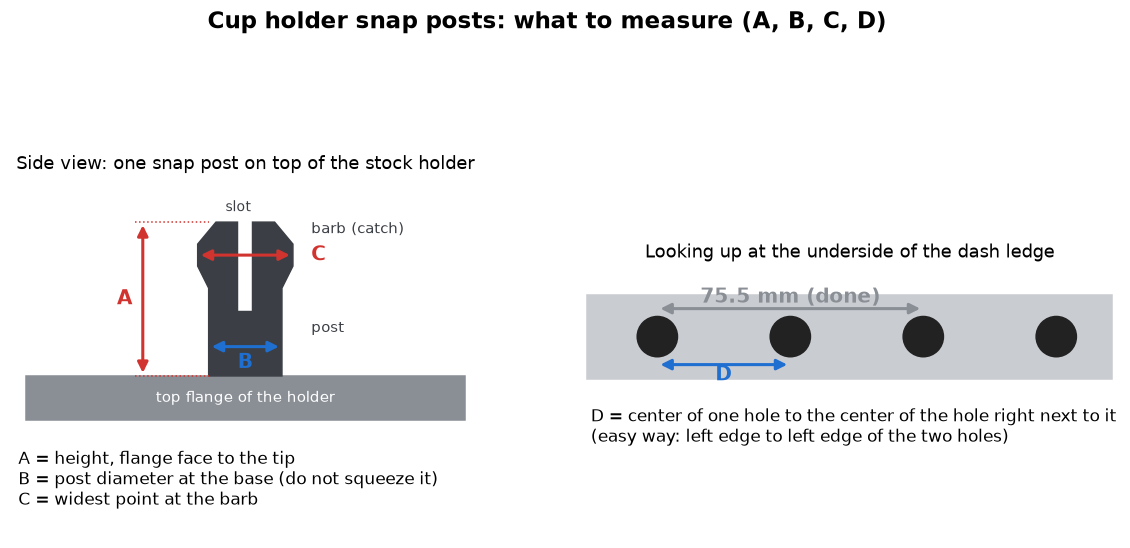
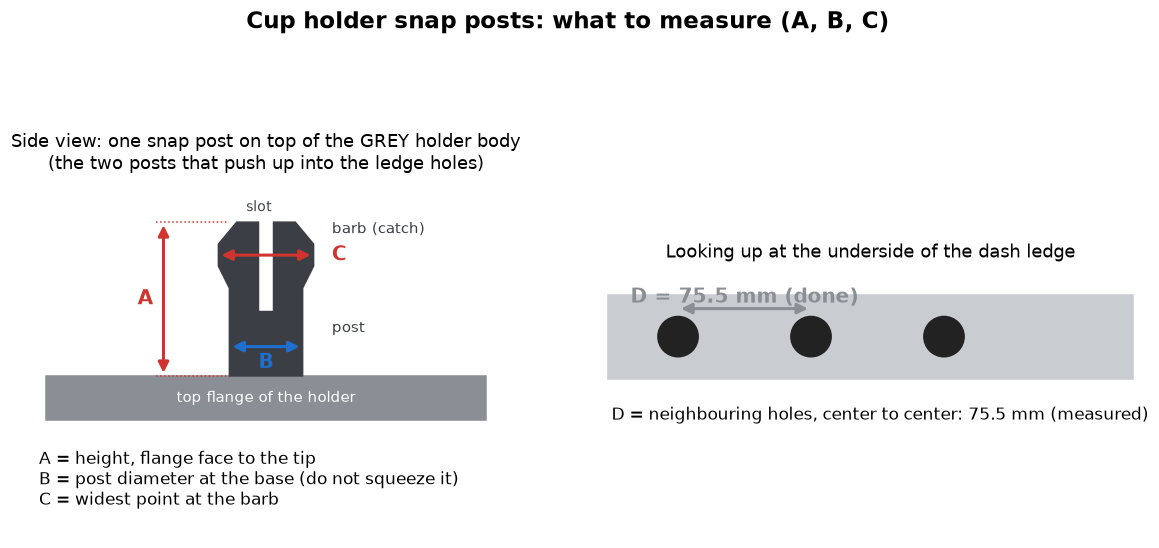
Record 75.5 mm hole spacing; update measuring guide
Neighbouring ledge holes are 75.5 mm apart (same as the post spacing),
so holders sit at least 151 mm apart and the Yeti cup has room. Mark D
as measured and label the posts as part of the grey holder body.

Claude-Session: https://claude.ai/code/session_01GspfW6RzL6x6FFXjPYGow1

diff --git a/docs/make_measure_diagram.py b/docs/make_measure_diagram.py
@@ -12,7 +12,7 @@ def dim(ax,p,q,label,color,off=(0,0),ha='center'):
 
 fig,(a1,a2)=plt.subplots(1,2,figsize=(13,6.5),gridspec_kw={'width_ratios':[1,1.15]})
 # Side view of one snap post on the stock holder's top flange.
-a1.set_title('Side view: one snap post on top of the stock holder',fontsize=12)
+a1.set_title('Side view: one snap post on top of the GREY holder body\n(the two posts that push up into the ledge holes)',fontsize=12)
 a1.add_patch(Rectangle((-30,-6),60,6,color=GREY))
 a1.text(0,-3,'top flange of the holder',ha='center',va='center',color='white',fontsize=10)
 post=[(-5,0),(-5,12),(-6.5,15),(-6.5,18),(-4,21),(4,21),(6.5,18),(6.5,15),(5,12),(5,0)]
@@ -30,11 +30,10 @@ a1.text(-31,-10,'A = height, flange face to the tip\nB = post diameter at the ba
 # Underside of the dash ledge, looking up at the hole row.
 a2.set_title('Looking up at the underside of the dash ledge',fontsize=12)
 a2.add_patch(Rectangle((-10,-12),150,24,color='#c9ccd1'))
-for i,x in enumerate(range(0,151,38)[:4]):
+for i,x in enumerate(range(0,151,38)[:3]):
     a2.add_patch(Circle((x+10,0),5.75,color='#222'))
-dim(a2,(10,-8),(48,-8),'D',BLUE,off=(0,-3))
-dim(a2,(10,8),(86,8),'75.5 mm (done)',GREY,off=(0,3.2))
-a2.text(-9,-20,'D = center of one hole to the center of the hole right next to it\n(easy way: left edge to left edge of the two holes)',fontsize=11,va='top')
+dim(a2,(10,8),(48,8),'D = 75.5 mm (done)',GREY,off=(0,3.2))
+a2.text(-9,-20,'D = neighbouring holes, center to center: 75.5 mm (measured)',fontsize=11,va='top')
 a2.set_xlim(-12,142); a2.set_ylim(-32,20); a2.set_aspect('equal'); a2.axis('off')
-fig.suptitle('Cup holder snap posts: what to measure (A, B, C, D)',fontsize=15,fontweight='bold')
+fig.suptitle('Cup holder snap posts: what to measure (A, B, C)',fontsize=15,fontweight='bold')
 fig.savefig(Path(__file__).with_name('measure_posts.png'),dpi=110,bbox_inches='tight')

diff --git a/README.md b/README.md
@@ -39,10 +39,10 @@ These are approximate tape readings from the photos, not caliper values.
 | Orange clip end tab | **17.6 mm** (caliper) | [photo](pictures/clip_end_17_6mm.jpg) |
 | Stock spring free length | ~1.05 in (~27 mm) | [IMG_0157](pictures/IMG_0157.JPEG) |
 | Ledge hole diameter | **11.5 mm** (caliper) | owner |
-| Post spacing, center to center | **75.5 mm** (caliper) | owner |
+| Hole spacing (neighbouring holes) = post spacing | **75.5 mm** (caliper) | owner |
 | Ledge thickness at the holes | **20 mm** (caliper) | owner |
-| Shelf rib (notch) pitch | ~1.55 in (~39.5 mm) from photo; probably ~37.75 mm | [shelf_rib_pitch](pictures/shelf_rib_pitch.jpg) |
-| Two stock holders, center to center | ~4.6 in, about 3 notches (~113–118 mm); to confirm | [two_holders_spacing](pictures/two_holders_spacing.jpg) |
+| Shelf rib pitch (lower lip) | ~1.55 in (~39.5 mm) from photo | [shelf_rib_pitch](pictures/shelf_rib_pitch.jpg) |
+| Two holders, center to center | at least 2 holes = **151 mm** (from the hole spacing) | [two_holders_spacing](pictures/two_holders_spacing.jpg) |
 | YETI Rambler 36 oz diameter | **3.75 in (95.3 mm)**, listed spec; base read ~3.6 in | [IMG_0161](pictures/IMG_0161.JPEG) |
 
 The stock rim (~101 mm) is wider than the bottle (95.3 mm), but the cup tapers to about 85 mm at the floor,
@@ -51,7 +51,7 @@ about 97–98 mm most of the way down; the bottle rings pick the exact size.
 
 **How it mounts:** two split posts on the top flange snap up into a row of round holes under the upper
 dash ledge ([photo](pictures/ledge_underside_holes.jpg)), and the bottom sits at the ribbed lip. At about
-3 notches (~113–118 mm) per holder, four enlarged ~103 mm cups still fit side by side.
+151 mm or more between holder centers (each holder uses two neighbouring holes), the enlarged ~103 mm cups have plenty of room.
 See [photo review: mounting](docs/photo-review.md#mounting-from-the-in-truck-photos).
 
 ## What has been checked

diff --git a/docs/measurements.md b/docs/measurements.md
@@ -19,11 +19,11 @@ in view help settle any ambiguity.
 | # | Feature | Measured |
 |---:|---|---|
 | T1 | Where do the new holders go? | **Any notch on the ribbed shelf lip; holders can be moved. Four fit side by side.** (owner) |
-| T2 | Rib pitch (center to center) | ~39.5 mm from photo; probably **~37.75 mm** (half of the 75.5 mm post spacing). Confirm with two neighbouring holes |
+| T2 | Rib pitch (center to center) | ~39.5 mm from photo; ribs are on the lower lip and don't set the hole spacing |
 | T3 | Rib thickness and height; lip thickness and height | |
 | T4 | How the bottom of the holder grips the lip (orange clip's square end between two ribs?), and how you release it | |
 | T5 | Center-to-center spacing of two stock holders side by side | ~118 mm (3 notches) from the flange edges, photo; confirm |
-| T6 | **Ledge holes:** diameter, spacing, ledge thickness | **11.5 mm hole; 75.5 mm between the holes the posts use; ledge 20 mm thick** (owner) |
+| T6 | **Ledge holes:** diameter, spacing, ledge thickness | **11.5 mm hole; 75.5 mm between neighbouring holes; ledge 20 mm thick** (owner) |
 | T7 | Do the holes line up with the ribs, or sit halfway between them? | |
 
 ## Main body (stock part)

diff --git a/docs/todo.md b/docs/todo.md
@@ -28,8 +28,8 @@ Updated 2026-09-29. [v0.1 gauges](../src/stl/v0.1/README.md) · [Measurements](m
 - [x] Caliper the ledge holes and clip posts: 11.5 mm hole, 75.5 mm post spacing, 20 mm ledge, 17.5 / 24 mm on the post (owner).
 - [x] 17.6 / 23.9 mm identified as orange clip dimensions (end tab, socket-end width), not post dimensions.
 - [ ] Measure the stock post height (flange to tip), shank diameter and barb diameter; then fix `post_h` and re-export v0.2.
-- [ ] Measure between two **neighbouring** ledge holes (expected ~37.75 mm if the posts use every other hole).
-- [ ] Confirm two stock holders sit 3 notches (~118 mm) apart; then the ~103 mm Yeti cup clears its neighbours (T5).
+- [x] Neighbouring ledge holes are 75.5 mm apart (owner), the same as the post spacing. Holders sit at least 2 holes (151 mm) apart center to center.
+- [x] Side-by-side clearance: at 151 mm minimum center spacing, the ~103 mm Yeti cup clears its neighbours.
 - [ ] Confirm how the bottom of the holder grips the lip (T4).
 - [ ] Decide on the grey tongue: reuse a torsion spring, or a printed flex finger (B11).
 - [ ] Pick a filament: PETG or ASA suggested for cab heat.
